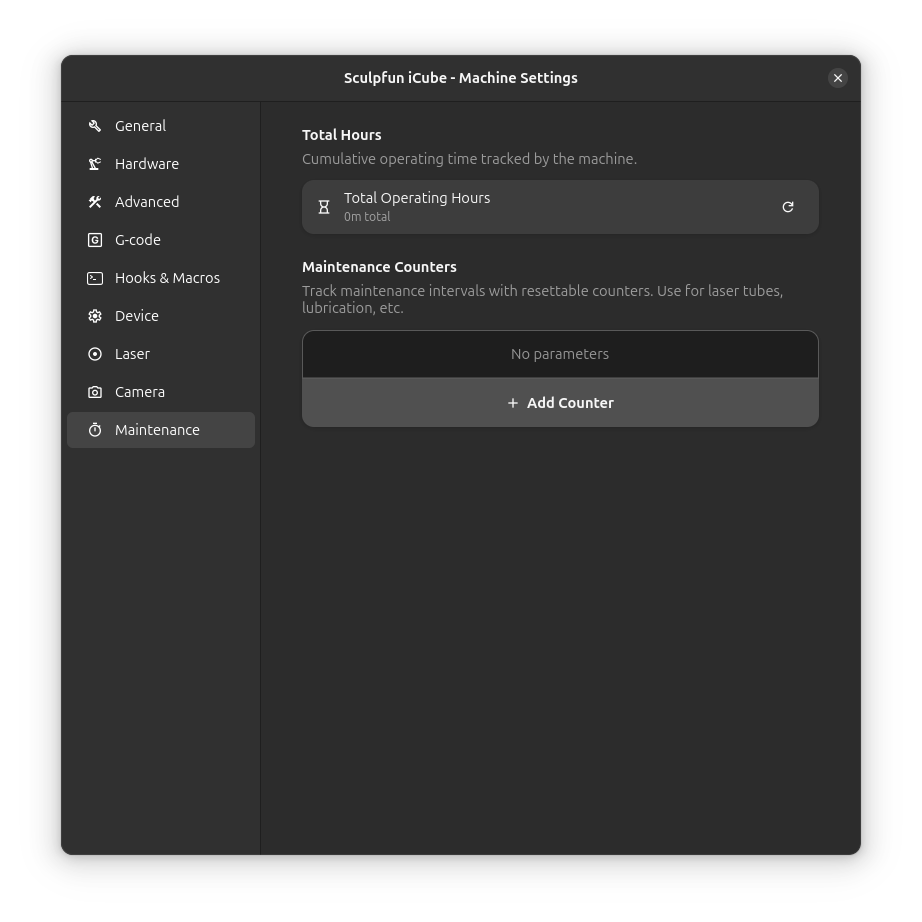
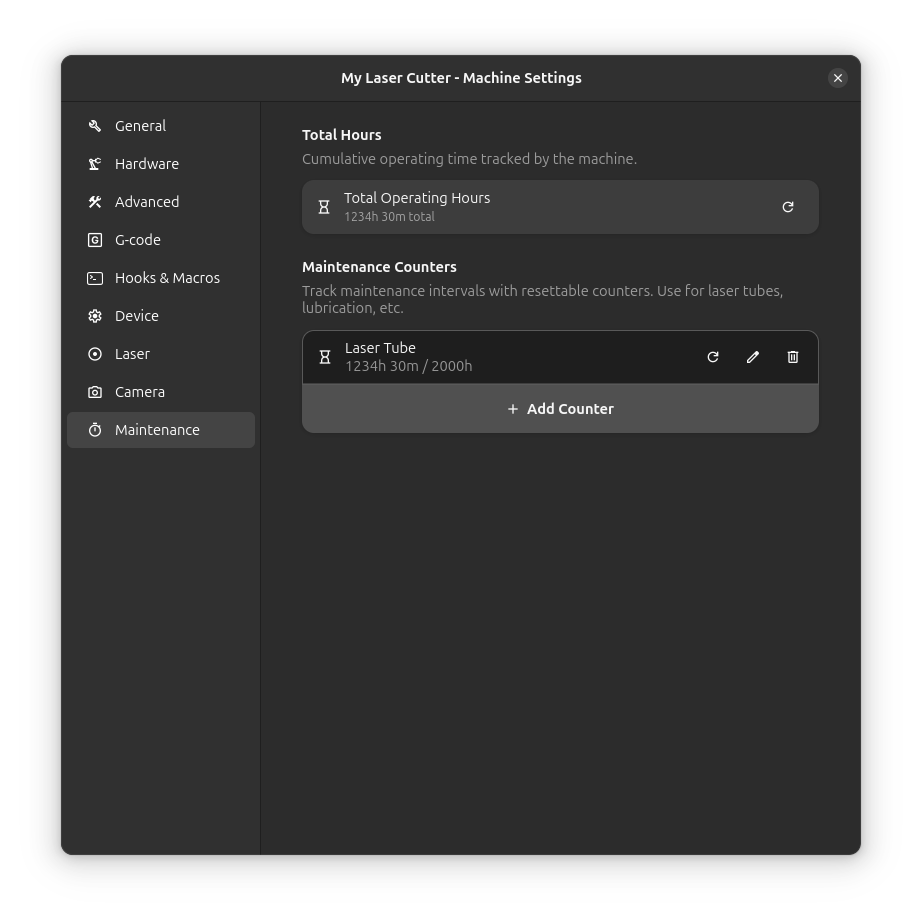
screenshotter now uses an isolated test config for better screenshots

Changed region(s): [[0.3341, 0.3644, 0.8807, 0.4859], [0.3644, 0.0607, 0.6377, 0.0911], [0.3644, 0.2126, 0.4555, 0.243]]

diff --git a/scripts/screenshot/utils.py b/scripts/screenshot/utils.py
@@ -50,13 +50,14 @@ def _run_on_main_thread(func: Callable[[], T], timeout: float = 10.0) -> T:
     exception: List[Optional[Exception]] = [None]
     done = Event()
 
-    def wrapper() -> None:
+    def wrapper() -> bool:
         try:
             result.append(func())
         except Exception as e:
             exception[0] = e
         finally:
             done.set()
+        return GLib.SOURCE_REMOVE
 
     GLib.idle_add(wrapper)
     if done.wait(timeout=timeout):
@@ -205,6 +206,31 @@ def show_panel(
 def hide_panel(win: "MainWindow", panel_name: str) -> None:
     """Hide a UI panel."""
     show_panel(win, panel_name, visible=False)
+
+
+def get_panel_state(win: "MainWindow", panel_name: str) -> bool:
+    """Get the current visibility state of a panel."""
+    def get_state() -> bool:
+        action = win.action_manager.get_action(panel_name)
+        state = action.get_state()
+        if state is None:
+            return False
+        return state.get_boolean()
+
+    return _run_on_main_thread(get_state)
+
+
+def save_panel_states(
+    win: "MainWindow", panel_names: list[str]
+) -> dict[str, bool]:
+    """Save the current state of multiple panels."""
+    return {name: get_panel_state(win, name) for name in panel_names}
+
+
+def restore_panel_states(win: "MainWindow", states: dict[str, bool]) -> None:
+    """Restore panel states from a saved dictionary."""
+    for name, visible in states.items():
+        show_panel(win, name, visible)
 
 
 def activate_simulation_mode(win: "MainWindow") -> bool:
@@ -435,8 +461,8 @@ def open_material_test(win: "MainWindow") -> "StepSettingsDialog":
             editor=win.doc_editor,
             step=step,
             transient_for=win,
-            initial_page="step-settings",
         )
+        dialog.set_initial_page("step-settings")
         dialog.set_default_size(600, 900)
         dialog.present()
         return dialog

diff --git a/scripts/screenshot/machine_settings_device.py b/scripts/screenshot/machine_settings_device.py
@@ -4,15 +4,40 @@
 import time
 import logging
 from rayforge.uiscript import app, win
+from rayforge.machine.driver.grbl_util import get_grbl_setting_varsets
 from utils import open_machine_settings, take_screenshot
 
 logger = logging.getLogger(__name__)
 PAGE = "device"
 
 
+def inject_fake_device_settings(dialog):
+    """Inject fake device settings into the device settings page."""
+    from utils import _run_on_main_thread
+
+    device_page = dialog.content_stack.get_child_by_name("device")
+
+    def _inject():
+        var_sets = get_grbl_setting_varsets()
+
+        device_page._is_busy = False
+        device_page._clear_error_state()
+        device_page._not_connected_warning_dismissed = True
+
+        device_page.machine.driver.supports_settings = True
+
+        device_page._rebuild_settings_widgets(var_sets)
+        device_page._update_ui_state()
+
+    _run_on_main_thread(_inject)
+
+
 def main():
     time.sleep(0.25)
-    open_machine_settings(win, PAGE)
+    dialog = open_machine_settings(win, PAGE)
+
+    inject_fake_device_settings(dialog)
+
     time.sleep(0.25)
     take_screenshot(f"machine-{PAGE}.png")
     time.sleep(0.25)

diff --git a/scripts/screenshot/cli.py b/scripts/screenshot/cli.py
@@ -8,6 +8,8 @@ import sys
 from pathlib import Path
 
 SCRIPTS_DIR = Path(__file__).parent
+PROJECT_ROOT = SCRIPTS_DIR.parent.parent
+TEST_CONFIG_DIR = PROJECT_ROOT / "tests" / "config"
 
 TARGETS = {
     "main:standard": "main_standard",
@@ -22,7 +24,7 @@ TARGETS = {
     "machine-settings:hardware": "machine_settings_hardware",
     "machine-settings:advanced": "machine_settings_advanced",
     "machine-settings:gcode": "machine_settings_gcode",
-    "machine-settings:hooks-macros": "machine_settings_hooks_macros",
+    "machine-settings:hooks-macros": "machine_settings_hooks-macros",
     "machine-settings:device": "machine_settings_device",
     "machine-settings:laser": "machine_settings_laser",
     "machine-settings:camera": "machine_settings_camera",
@@ -70,6 +72,8 @@ def run_script(script_name: str, target: str) -> int:
         "pixi",
         "run",
         "rayforge",
+        "--config",
+        str(TEST_CONFIG_DIR),
         "--uiscript",
         str(SCRIPTS_DIR / f"{script_name}.py"),
     ]

diff --git a/scripts/screenshot/main_3d.py b/scripts/screenshot/main_3d.py
@@ -13,10 +13,14 @@ from utils import (
     wait_for_settled,
     show_panel,
     hide_panel,
+    save_panel_states,
+    restore_panel_states,
     take_screenshot,
 )
 
 logger = logging.getLogger(__name__)
+
+PANELS = ["show_3d_view", "toggle_control_panel", "toggle_gcode_preview"]
 
 
 def main():
@@ -33,15 +37,23 @@ def main():
 
     logger.info("Setting up 3D mode")
 
+    saved_states = save_panel_states(win, PANELS)
     show_panel(win, "show_3d_view", True)
     hide_panel(win, "toggle_control_panel")
     show_panel(win, "toggle_gcode_preview", True)
 
     logger.info("Waiting for 3D view to render...")
-    time.sleep(0.25)
+    if not wait_for_settled(win, timeout=20):
+        logger.error("3D view did not settle in time")
+        app.quit_idle()
+        return
+
+    time.sleep(0.5)
 
     logger.info("Taking screenshot: main-3d.png")
     take_screenshot("main-3d.png")
+
+    restore_panel_states(win, saved_states)
 
     time.sleep(0.25)
     app.quit_idle()

diff --git a/scripts/screenshot/control_panel.py b/scripts/screenshot/control_panel.py
@@ -12,6 +12,8 @@ from utils import (
     load_project,
     wait_for_settled,
     show_panel,
+    save_panel_states,
+    restore_panel_states,
     take_cropped_screenshot,
     _run_on_main_thread,
 )
@@ -21,6 +23,7 @@ logger = logging.getLogger(__name__)
 PANEL_HEIGHT = 280
 MARGIN = 10
 STATUS_BAR_HEIGHT = 60
+PANELS = ["toggle_control_panel", "toggle_gcode_preview"]
 
 
 def main():
@@ -38,6 +41,7 @@ def main():
 
     logger.info("Document settled, showing control panel")
 
+    saved_states = save_panel_states(win, PANELS)
     show_panel(win, "toggle_control_panel", True)
     show_panel(win, "toggle_gcode_preview", False)
 
@@ -54,6 +58,8 @@ def main():
         "control-panel.png",
         from_top=crop_from_top,
     )
+
+    restore_panel_states(win, saved_states)
 
     time.sleep(0.25)
     app.quit_idle()

diff --git a/scripts/screenshot/main_standard.py b/scripts/screenshot/main_standard.py
@@ -12,10 +12,14 @@ from utils import (
     load_project,
     wait_for_settled,
     show_panel,
+    save_panel_states,
+    restore_panel_states,
     take_screenshot,
 )
 
 logger = logging.getLogger(__name__)
+
+PANELS = ["toggle_control_panel", "toggle_gcode_preview"]
 
 
 def main():
@@ -31,6 +35,7 @@ def main():
 
     logger.info("Document settled, setting up standard mode")
 
+    saved_states = save_panel_states(win, PANELS)
     show_panel(win, "toggle_control_panel", True)
     show_panel(win, "toggle_gcode_preview", True)
 
@@ -38,6 +43,8 @@ def main():
 
     logger.info("Taking screenshot: main-standard.png")
     take_screenshot("main-standard.png")
+
+    restore_panel_states(win, saved_states)
 
     time.sleep(0.25)
     app.quit_idle()

diff --git a/scripts/screenshot/main_simulation.py b/scripts/screenshot/main_simulation.py
@@ -14,10 +14,14 @@ from utils import (
     show_panel,
     hide_panel,
     activate_simulation_mode,
+    save_panel_states,
+    restore_panel_states,
     take_screenshot,
 )
 
 logger = logging.getLogger(__name__)
+
+PANELS = ["toggle_control_panel", "toggle_gcode_preview"]
 
 
 def main():
@@ -39,6 +43,7 @@ def main():
         app.quit_idle()
         return
 
+    saved_states = save_panel_states(win, PANELS)
     hide_panel(win, "toggle_control_panel")
     show_panel(win, "toggle_gcode_preview", True)
 
@@ -46,6 +51,8 @@ def main():
 
     logger.info("Taking screenshot: main-simulation.png")
     take_screenshot("main-simulation.png")
+
+    restore_panel_states(win, saved_states)
 
     time.sleep(0.25)
     app.quit_idle()

diff --git a/rayforge/ui_gtk/doceditor/step_settings/multipass.py b/rayforge/ui_gtk/doceditor/step_settings/multipass.py
@@ -54,8 +54,11 @@ class MultiPassSettingsWidget(DebounceMixin, StepComponentSettingsWidget):
             lower=0.0, upper=50.0, step_increment=0.1, page_increment=1.0
         )
         z_step_row = Adw.SpinRow(
-            title=_("Z Step-Down per Pass (mm)"),
-            subtitle=_("Distance to lower Z-axis for each subsequent pass"),
+            title=_("Z Step-Down per Pass"),
+            subtitle=_(
+                "Distance to lower Z-axis for each subsequent pass "
+                "in machine units"
+            ),
             adjustment=z_step_adj,
             digits=2,
         )
